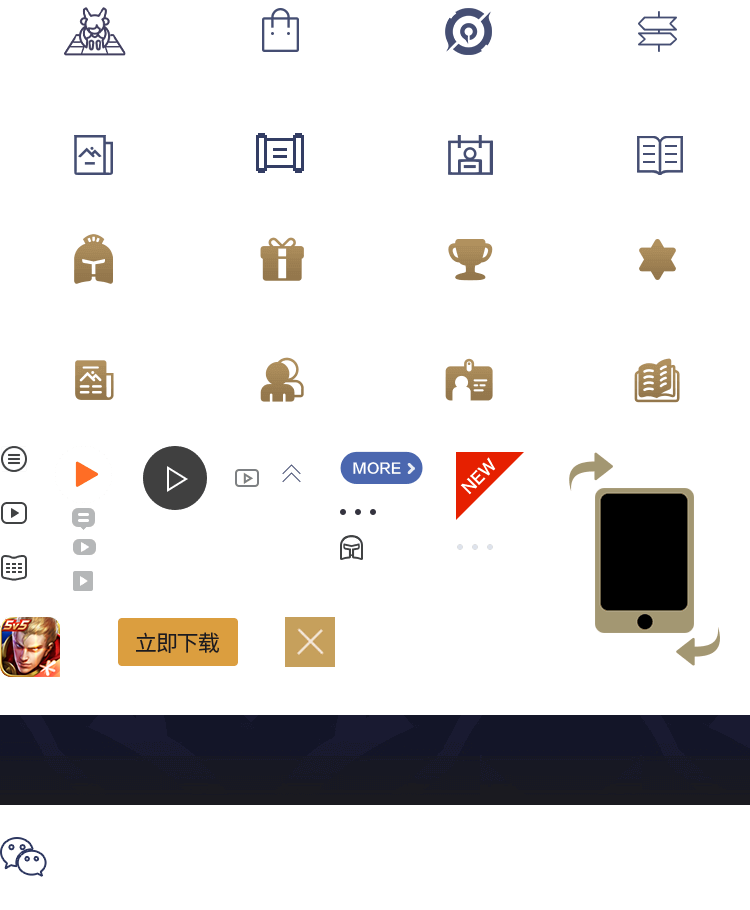
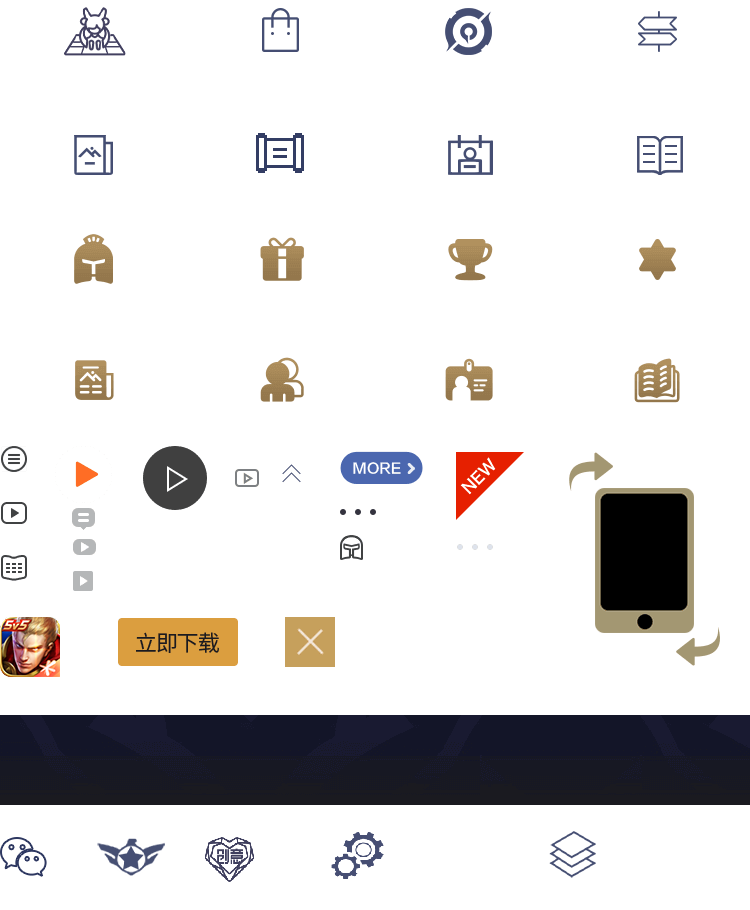
spirit图修改，优化main页面

diff --git a/src/views/home/Home.vue b/src/views/home/Home.vue
@@ -15,14 +15,17 @@
   <!-- 图标导航 -->
   <div class="nav-icons bg-white mt-3 pt-3 text-center">
     <div class="d-flex flex-wrap">
-      <div class="nav-item mb-3" v-for="item in 10" :key="item">
-        <i class="spirit spirit-news"></i>
-        <div class="py-2">爆料站</div>
+      <div class="nav-item mb-2" v-for="item in iconnavigation" :key="item">
+        <i class="spirit" :class="item.iconName"></i>
+        <div class="py-2">{{ item.name }}</div>
       </div>
     </div>
     <div class="bg-light py-2 fs-sm">
-      <i class="spirit spirit-arrow mr-2"></i>
-      <span>收起</span>
+      <i
+        class="spirit mr-2"
+        :class="isPullUp ? 'spirit-arrow-up' : 'spirit-arrow'"
+      ></i>
+      <span @click="onPullUp">收起</span>
     </div>
   </div>
 
@@ -35,7 +38,9 @@
         v-for="(item, i) of category.newsList"
         :key="i"
       >
-        <span class="text-info">{{ `[${item.categoryName}]` }}</span>
+        <span class="text-primary news-category fs-sm px-1">{{
+          item.categoryName
+        }}</span>
         <span class="flex-1 text-dark-1 text-ellipsis px-2">{{
           item.title
         }}</span>
@@ -69,15 +74,11 @@
       </div>
     </template>
   </com-listcard>
-  <div>1111</div>
-  <div>1111</div>
-  <div>1111</div>
-  <div>1111</div>
-  <div>1111</div>
-  <div>1111</div>
-  <div>1111</div>
-  <div>1111</div>
-  <div>1111</div>
+  <div class="bg-white py-2 text-center">
+    <router-link to="/strategycenter" class="text-grey fs-md">
+      加载更多内容
+    </router-link>
+  </div>
 </template>
 <script lang='ts'>
 import { defineComponent, onMounted, reactive, ref, toRefs } from 'vue'
@@ -85,9 +86,12 @@ import dayjs from 'dayjs'
 
 import { reqHeroesData, reqNewsData } from '../../api'
 import { HomeData, News, Heroes } from '../../typings'
+import { ICON_NAVIGATION } from '../../utils/constants'
 
 export default defineComponent({
   setup() {
+    const isPullUp = ref<boolean>(true) //初始是收起状态
+    const iconnavigation = ref<object[]>([])
     const state = reactive<HomeData>({
       news: [],
       heroes: [],
@@ -96,6 +100,7 @@ export default defineComponent({
     onMounted(() => {
       getNewsData()
       getHeroesData()
+      onPullUp()
     })
 
     /**发送请求获取新闻资讯内容 */
@@ -123,10 +128,22 @@ export default defineComponent({
       // console.log(state.heroes)
     }
 
+    const onPullUp = () => {
+      if (isPullUp.value) {
+        iconnavigation.value = ICON_NAVIGATION.slice(0, 4)
+      } else {
+        iconnavigation.value = ICON_NAVIGATION.slice(0, 12)
+      }
+      isPullUp.value = !isPullUp.value
+    }
+
     return {
       ...toRefs(state),
       getNewsData,
       getHeroesData,
+      onPullUp,
+      iconnavigation,
+      isPullUp,
     }
   },
 })
@@ -152,7 +169,11 @@ export default defineComponent({
     }
   }
 }
+.news-category {
+  border: 0.0769rem solid map-get($colors, 'primary');
+}
 .nav-icons {
+  // overflow: auto;
   border-top: 0.0769rem solid $border-color;
   border-bottom: 0.0769rem solid $border-color;
   .nav-item {

diff --git a/src/assets/scss/common.scss b/src/assets/scss/common.scss
@@ -190,9 +190,71 @@ p{
     height: 1.5385rem;
     background-position: 63.546% 15.517%;
   }
+  &.spirit-gsz{
+    width: 1.7692rem;
+    height: 1.5385rem;
+    background-position: 90.483% 15.614%;
+  }
+  &.spirit-zbsc{
+    width: 1.4615rem;
+    height: 1.6923rem;
+    background-position: 36.746% 0.924%;
+  }
+  &.spirit-tyf{
+    width: 1.5385rem;
+    height: 1.5385rem;
+    background-position: 10.408% 15.517%;
+  }
+  &.spirit-xrzq{
+    width: 1.5385rem;
+    height: 1.6154rem;
+    background-position: 89.733% 1.266%;
+  }
+  &.spirit-rycc{
+    width: 1.8462rem;
+    height: 1.5385rem;
+    background-position: 36.467% 15.287%;
+  }
+  &.spirit-wzyd{
+    width: 1.8462rem;
+    height: 1.8462rem;
+    background-position: 63.3% 0.927%;
+  }
+  &.spirit-gzh{
+    width: 1.8462rem;
+    height: 1.5385rem;
+    background-position: 0 96.207%;
+  }
+  &.spirit-bbjs{
+    width: 1.8462rem;
+    height: 1.8462rem;
+    background-position: 78.094% 96.292%;
+  }
+  &.spirit-djhj{
+    width: 2.6154rem;
+    height: 1.6154rem;
+    background-position: 14.223% 96.318%;
+  }
+  &.spirit-ipgjjh{
+    width: 2.0769rem;
+    height: 1.8462rem;
+    background-position: 47.489% 96.408%;
+  }
+  &.spirit-cyhdy{
+    width: 1.9231rem;
+    height: 1.7692rem;
+    background-position: 29.244% 96.763%;
+  }
   &.spirit-arrow{
     width: .7692rem;
     height: .7692rem;
+    transform: rotate(180deg);
+    background-position: 38.577% 52.076%;
+  }
+  &.spirit-arrow-up{
+    width: .7692rem;
+    height: .7692rem;
+    transform: rotate(0);
     background-position: 38.577% 52.076%;
   }
 }

diff --git a/src/views/mainpage/MainPage.vue b/src/views/mainpage/MainPage.vue
@@ -9,21 +9,25 @@
   </div>
   <div class="bg-primary py-2 pt-3">
     <div class="nav nav-inverse pb-2 jc-around">
-      <div class="nav-item active">
-        <router-link class="nav-link" to="/home">
-          <div>首页</div>
-        </router-link>
+      <div class="nav-item" :class="$route.path === '/home' ? 'active' : ''">
+        <router-link class="nav-link" to="/home"> 首页 </router-link>
       </div>
-      <div class="nav-item">
+      <div
+        class="nav-item"
+        :class="$route.path === '/strategycenter' ? 'active' : ''"
+      >
         <router-link class="nav-link" to="/strategycenter">
           攻略中心
         </router-link>
       </div>
-      <div class="nav-item">
+      <div
+        class="nav-item"
+        :class="$route.path === '/matchcenter' ? 'active' : ''"
+      >
         <router-link class="nav-link" to="/matchcenter"> 赛事中心 </router-link>
       </div>
-      <div class="nav-item">
-        <router-link class="nav-link" to="/matchcenter"> IP新游 </router-link>
+      <div class="nav-item" :class="$route.path === '/newgame' ? 'active' : ''">
+        <router-link class="nav-link" to="/newgame"> IP新游 </router-link>
       </div>
     </div>
   </div>
@@ -34,9 +38,7 @@ import { defineComponent } from 'vue'
 
 export default defineComponent({
   name: 'mainpage',
-  setup() {
-    console
-  },
+  setup() {},
 })
 </script>
 

diff --git a/src/utils/constants.ts b/src/utils/constants.ts
@@ -1,0 +1,15 @@
+// export const ICON_NAVIGATION: Array<object> = [{name:'爆料站',iconName:'spirit-news'}, '故事站', '周边商城', '体验服', '新人专区', '荣耀·传承', '王者营地', '公众号', '版本介绍', '对局环境', 'IP共建计划', '创意互动营']
+export const ICON_NAVIGATION: Array<object> = [
+  { name: '爆料站', iconName: 'spirit-news' },
+  { name: '故事站', iconName: 'spirit-gsz' },
+  { name: '周边商城', iconName: 'spirit-zbsc' },
+  { name: '体验服', iconName: 'spirit-tyf' },
+  { name: '新人专区', iconName: 'spirit-xrzq' },
+  { name: '荣耀·传承', iconName: 'spirit-rycc' },
+  { name: '王者营地', iconName: 'spirit-wzyd' },
+  { name: '公众号', iconName: 'spirit-gzh' },
+  { name: '版本介绍', iconName: 'spirit-bbjs' },
+  { name: '对局环境', iconName: 'spirit-djhj' },
+  { name: 'IP共建计划', iconName: 'spirit-ipgjjh' },
+  { name: '创意互动营', iconName: 'spirit-cyhdy' },
+]
